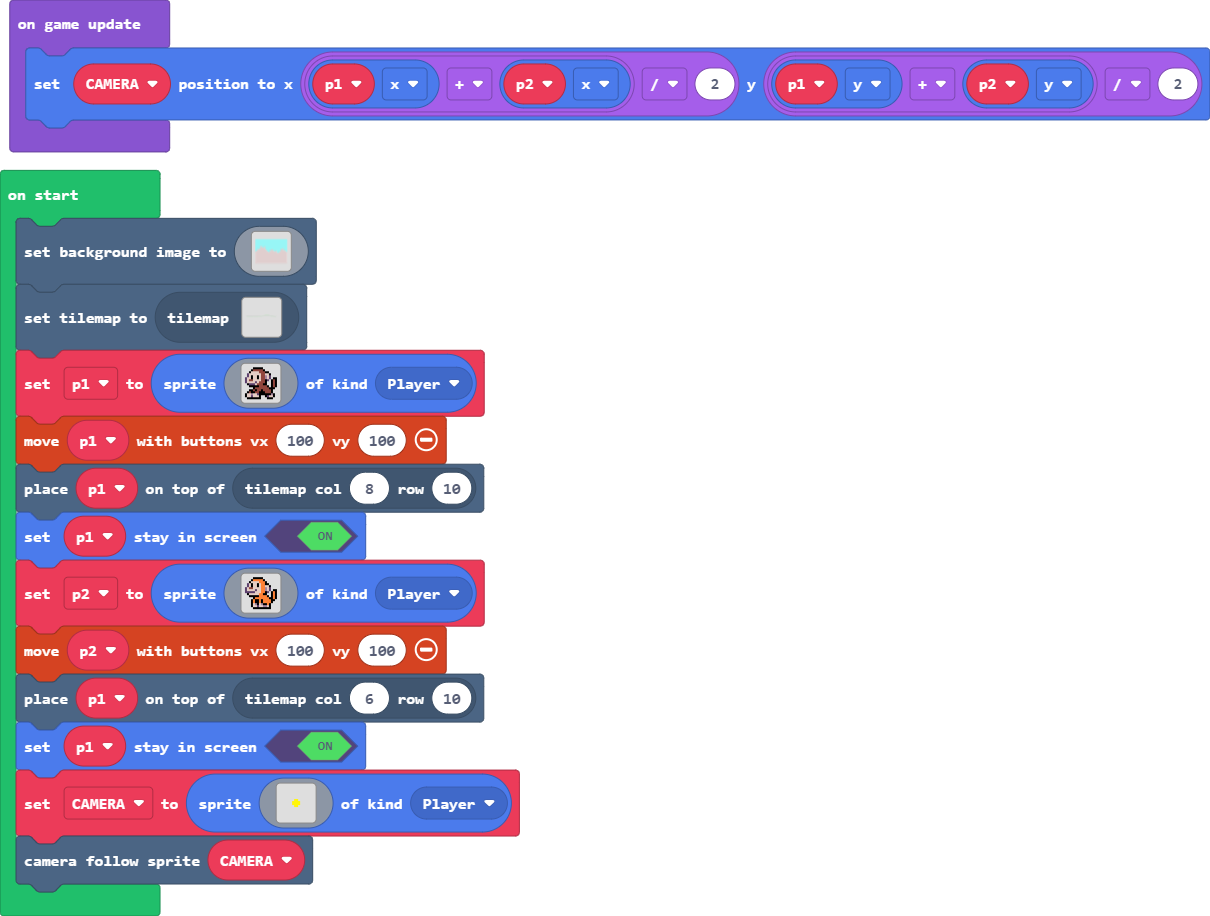
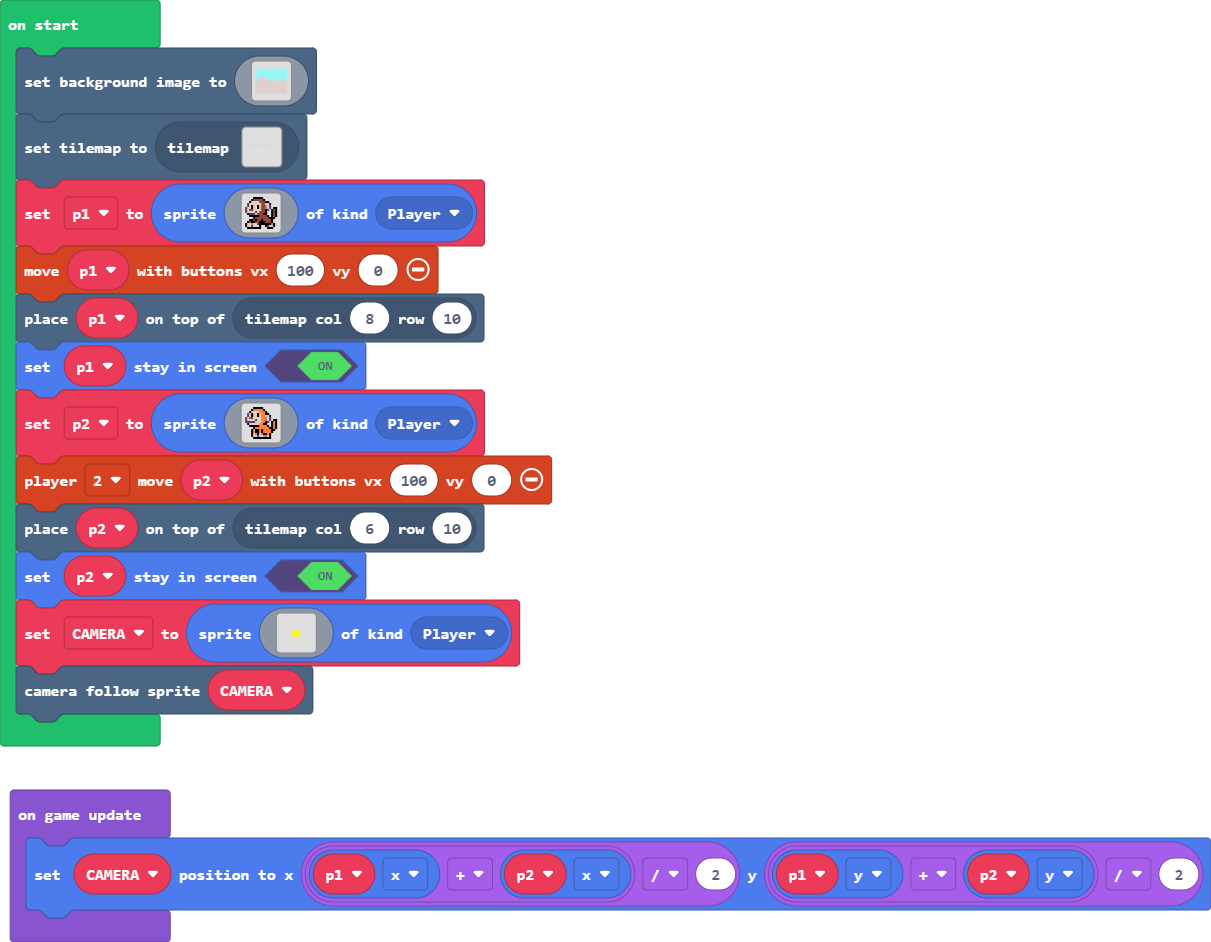
Update pxt.json, main.blocks, main.ts, tilemap.g.jres, tilemap.g.ts

diff --git a/tilemap.g.ts b/tilemap.g.ts
@@ -14,10 +14,10 @@ namespace myTiles {
 ...............................................................................................................................................................................................................................................................
 ...............................................................................................................................................................................................................................................................
 ...............................................................................................................................................................................................................................................................
-...............................................................................................................................................................................................................................................................
-...............................................................................................................................................................................................................................................................
-...............................................................................................................................................................................................................................................................
-...............................................................................................................................................................................................................................................................
+................2..............................................................................................................................................................................................................................................
+..............2................................................................................................................................................................................................................................................
+.............22................................................................................................................................................................................................................................................
+.2222222222222.................................................................................................................................................................................................................................................
 ...............................................................................................................................................................................................................................................................
 ...............................................................................................................................................................................................................................................................
 ...............................................................................................................................................................................................................................................................

diff --git a/main.ts b/main.ts
@@ -139,7 +139,7 @@ let p1 = sprites.create(img`
     f d d c d d d f . . f c d d f . 
     . f f f f f f f . . . f f f . . 
     `, SpriteKind.Player)
-controller.moveSprite(p1, 100, 100)
+controller.moveSprite(p1, 100, 0)
 tiles.placeOnTile(p1, tiles.getTileLocation(8, 10))
 p1.setStayInScreen(true)
 let p2 = sprites.create(img`
@@ -160,9 +160,9 @@ let p2 = sprites.create(img`
     . . . f d d c d d b b d f . . . 
     . . . . f f f f f f f f f . . . 
     `, SpriteKind.Player)
-controller.moveSprite(p2, 100, 100)
-tiles.placeOnTile(p1, tiles.getTileLocation(6, 10))
-p1.setStayInScreen(true)
+controller.player2.moveSprite(p2, 100, 0)
+tiles.placeOnTile(p2, tiles.getTileLocation(6, 10))
+p2.setStayInScreen(true)
 let CAMERA = sprites.create(img`
     . . . . . . . . . . . . . . . . 
     . . . . . . . . . . . . . . . . 
